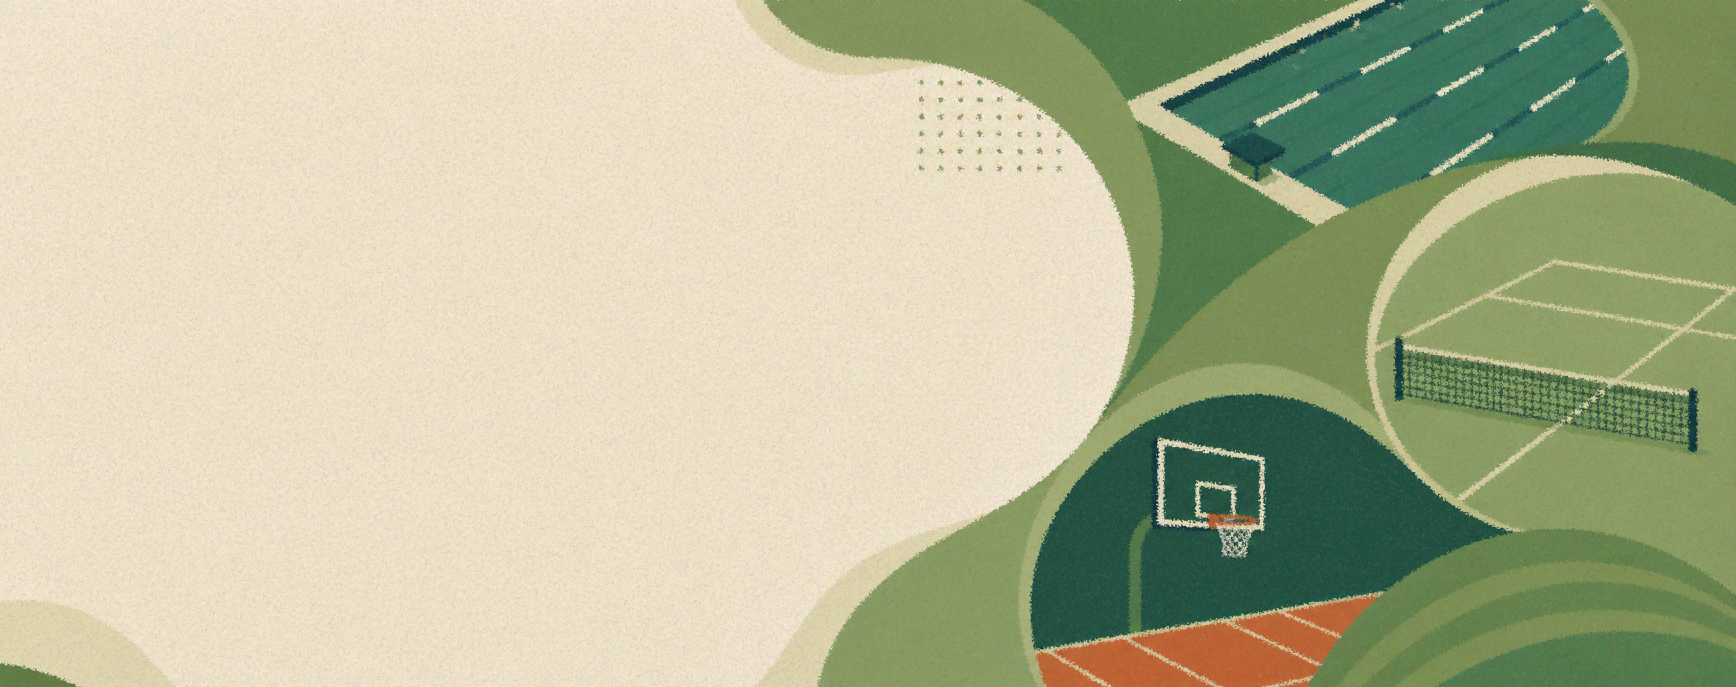
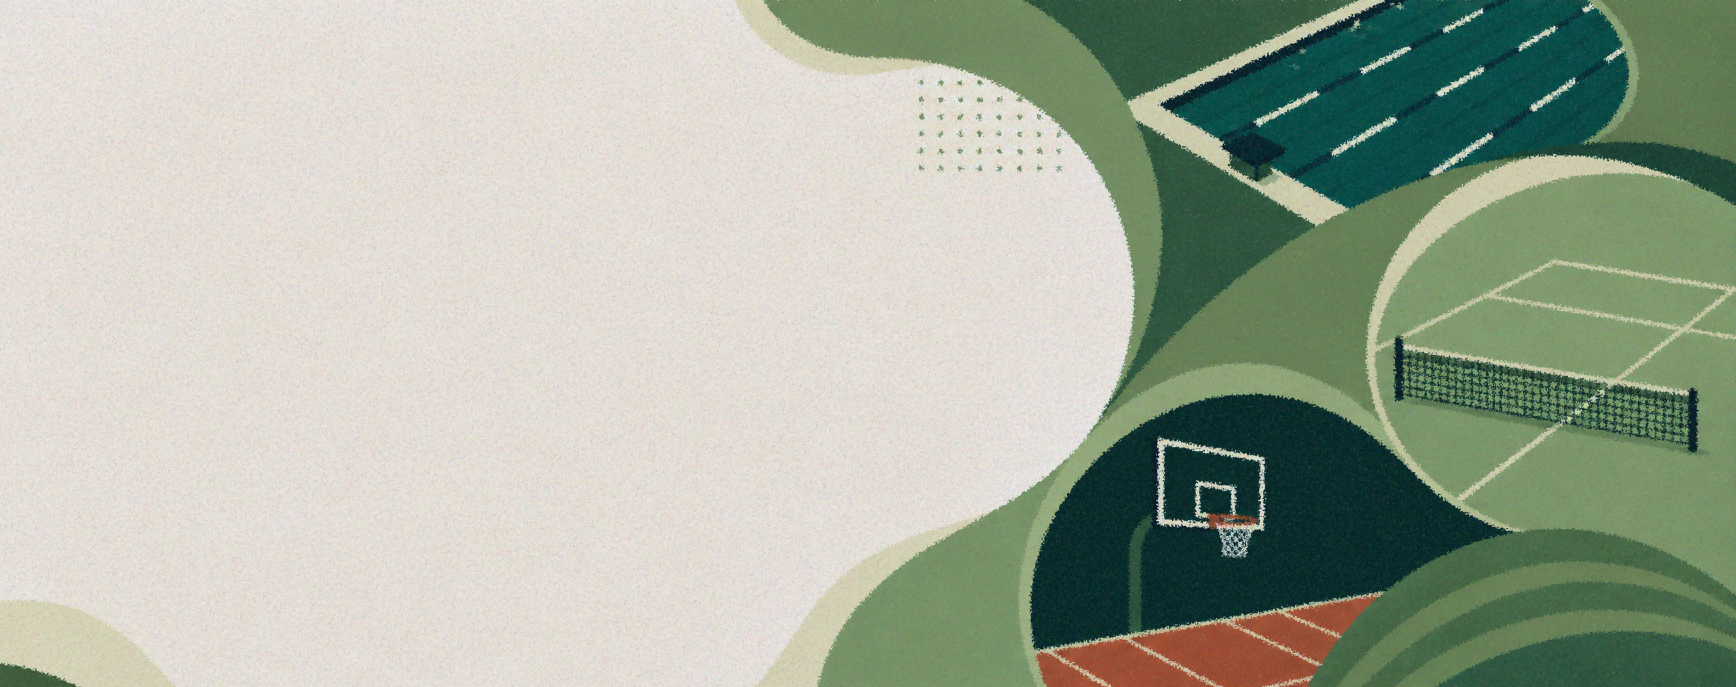
frfr header

diff --git a/src/styles.css b/src/styles.css
@@ -3594,8 +3594,7 @@ select {
   display: flex;
   flex-direction: column;
   align-items: flex-start;
-  background: rgba(235, 224, 199, 0.88);
-  border: 1.5px solid #EBE0C7;
+  background: #E5DED9;
   border-radius: 18px;
   padding: clamp(24px, 3.5vw, 44px) clamp(20px, 3vw, 40px);
   backdrop-filter: blur(4px);
@@ -3631,7 +3630,7 @@ select {
 
 html[data-surface="blacktop"] .landing-hero-content .primary-button {
   background: #131a1a;
-  color: #EBE0C7;
+  color: #E5DED9;
   border-color: #131a1a;
 }
 
